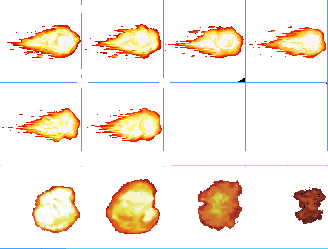
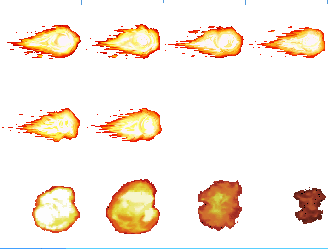
fixed issues

diff --git a/oop2_project_Alexander1_Yershov1_Anael2_Zateikin2/src/Character/Player.cpp b/oop2_project_Alexander1_Yershov1_Anael2_Zateikin2/src/Character/Player.cpp
@@ -34,51 +34,47 @@ Action Player::getActionFromKey(Arena& arena)
         { sf::Keyboard::Z    , Action { ActionType::Punching, Direction::Stay } },
         { sf::Keyboard::X    , Action { ActionType::SpecialDynamic, Direction::Stay } },
         { sf::Keyboard::C    , Action { ActionType::SpecialStatic, Direction::Stay } },
-        /*{ sf::Keyboard::Space, Action { ActionType::Sprinting, Direction::Stay } },*/
         { sf::Keyboard::Space, Action { ActionType::Sprinting, Direction::Stay } }
 
     };
 
     for (/*const*/ auto/*&*/ pair : keyToVectorMapping)
     {
+        //m_speed = SPEED;
+        AttackType attackType;  // for special attacks
+
         if (sf::Keyboard::isKeyPressed(pair.first))
         {
-            // in case special attack is attempted
-            auto type = pair.second.first;
-            if (type == ActionType::SpecialDynamic )
+            switch (auto type = pair.second.first)
             {
-                if (enoughMana(ActionType::SpecialDynamic) && m_specialAttackClock.getElapsedTime() > SPECIAL_DELAY)
-                {
-                    m_specialAttackClock.restart();
-                    arena.createSpecialAttack(type, m_specialAttacks.first, this);
-                    m_action.first = ActionType::SpecialDynamic;
-                    m_mana -= 30;
-                }
-                else
-                {
-                    m_action.first = ActionType::Standing;
-                }
-             }
-            if (type == ActionType::SpecialStatic)
-            {
-                if (enoughMana(ActionType::SpecialStatic))
-                {
-                    arena.createSpecialAttack(type, m_specialAttacks.second, this);
-                    m_action.first = ActionType::SpecialStatic;
-                }
-                else
-                {
-                    m_action.first = ActionType::Standing;
-                }
-            }
-            if (type == ActionType::Sprinting)
-            {
+            case ActionType::Sprinting:
                 m_speed = RUN_SPEED;
                 pair.second.second = getFacingDirection();
-            }
-            else
+                break;
+            case ActionType::SpecialDynamic:
+                m_mana -= 10;
+                // continue to fall through to static
+            case ActionType::SpecialStatic:
+                attackType = type == ActionType::SpecialDynamic ? m_specialAttacks.first : m_specialAttacks.second;
+                if (enoughMana(type) && m_specialAttackClock.getElapsedTime() > SPECIAL_DELAY)
+                {
+                    m_specialAttackClock.restart();
+                    arena.createSpecialAttack(type, attackType, this);
+                    m_action.first = type;
+                    m_mana -= 20;
+                }
+                else
+                    pair.second.first = ActionType::Standing;
+                break;
+            case ActionType::Burning:
+                break;
+            case ActionType::Freezing:
+                break;
+            default:
                 m_speed = SPEED;
-            //m_speed = (type == ActionType::Sprinting) ? RUN_SPEED : SPEED;
+                break;
+            }
+            
 
             return pair.second;
         }

diff --git a/oop2_project_Alexander1_Yershov1_Anael2_Zateikin2/src/ResourcesManager.cpp b/oop2_project_Alexander1_Yershov1_Anael2_Zateikin2/src/ResourcesManager.cpp
@@ -96,9 +96,9 @@ AnimeMap ResourcesManager::dynamicData() const
     auto nextStart = [&]()
     {
         currentStart.x += size.x;
-        if (currentStart.x > size.x * 10)
+        if (currentStart.x > size.x * 4)
         {
-            currentStart.x %= size.x * 10;
+            currentStart.x %= size.x * 4;
             currentStart.y += size.y;
         }
 
@@ -122,7 +122,7 @@ AnimeMap ResourcesManager::dynamicData() const
 
 AnimeMap ResourcesManager::staticFireData() const
 {
-    const auto size = sf::Vector2i(80, 80);
+    const auto size = sf::Vector2i(160, 150);
     const auto initSpace = sf::Vector2i(1, 2);
 
     auto fireObj = AnimeMap{};
@@ -131,9 +131,9 @@ AnimeMap ResourcesManager::staticFireData() const
     auto nextStart = [&]()
     {
         currentStart.x += size.x;
-        if (currentStart.x > size.x * 10)
+        if (currentStart.x > size.x * 5)
         {
-            currentStart.x %= size.x * 10;
+            currentStart.x %= size.x * 5;
             currentStart.y += size.y;
         }
 
@@ -141,7 +141,8 @@ AnimeMap ResourcesManager::staticFireData() const
     };
 
     fireObj.m_data[ActionType::Standing].emplace_back(currentStart, size);
-    for (int repeat = 0; repeat < 7; repeat++)  fireObj.m_data[ActionType::Standing].emplace_back(nextStart(), size);
+    fireObj.m_data[ActionType::hit].emplace_back(currentStart, size);
+    for (int repeat = 0; repeat < 7; repeat++)  fireObj.m_data[ActionType::hit].emplace_back(nextStart(), size);
 
     return fireObj;
 }
@@ -157,9 +158,9 @@ AnimeMap ResourcesManager::staticIceData() const
     auto nextStart = [&]()
     {
         currentStart.x += size.x;
-        if (currentStart.x > size.x * 10)
+        if (currentStart.x > size.x * 5)
         {
-            currentStart.x %= size.x * 10;
+            currentStart.x %= size.x * 5;
             currentStart.y += size.y;
         }
 
@@ -167,7 +168,8 @@ AnimeMap ResourcesManager::staticIceData() const
     };
 
     for (int repeat = 0; repeat < 21; repeat++)  nextStart();
-    for (int repeat = 0; repeat < 6; repeat++)  iceObj.m_data[ActionType::Standing].emplace_back(nextStart(), size);
+    iceObj.m_data[ActionType::Standing].emplace_back(currentStart, size);
+    for (int repeat = 0; repeat < 6; repeat++)  iceObj.m_data[ActionType::hit].emplace_back(nextStart(), size);
 
     return iceObj;
 }

diff --git a/oop2_project_Alexander1_Yershov1_Anael2_Zateikin2/src/Character/Character.cpp b/oop2_project_Alexander1_Yershov1_Anael2_Zateikin2/src/Character/Character.cpp
@@ -69,6 +69,11 @@ Direction Character::getFacingDirection() const
 	return m_picture.getScale().x < 0 ? Direction::Left : Direction::Right;
 }
 
+sf::Vector2f Character::getOrigin()
+{
+	return m_picture.getOrigin();
+}
+
 float Character::x() const
 {
 	return m_picture.getPosition().x;
@@ -81,17 +86,17 @@ float Character::y() const
 
 bool Character::enoughMana(ActionType attack) const
 {
-	if (attack == ActionType::SpecialDynamic && m_mana < MAX_MANA / 2 ||
-		attack == ActionType::SpecialStatic && m_mana < MAX_MANA / 4)
-		return false;
-	return true;
+	if (attack == ActionType::SpecialDynamic && m_mana >= 30 ||
+		attack == ActionType::SpecialStatic && m_mana >= 20)
+		return true;
+	return false;
 }
 
 Character::~Character()
 {
 }
 
-// find find the Euclidean distance between two characters
+// finds the Euclidean distance between two characters
 float Character::operator-(const sf::Vector2f* other) const
 {
 	return std::hypot(this->x() - other->x, this->y() - other->y);

diff --git a/oop2_project_Alexander1_Yershov1_Anael2_Zateikin2/src/specialAttack/DynamicAttack.cpp b/oop2_project_Alexander1_Yershov1_Anael2_Zateikin2/src/specialAttack/DynamicAttack.cpp
@@ -5,7 +5,7 @@ DynamicAttack::DynamicAttack(const sf::Vector2f& location, AttackType attack, Ch
 	: SpecialAttack(location, attack, owner)
 {
 	m_action = Action(ActionType::Standing, owner->getFacingDirection());
-	m_picture.setPosition(location.x + OFFSET_SPECIAL_ATTACK_X * convert(owner->getFacingDirection()).x, location.y - OFFSET_SPECIAL_ATTACK_Y);
+	m_picture.setPosition(location.x + OFFSET_SPECIAL_ATTACK_X * convert(owner->getFacingDirection()).x, location.y);
 	correctDir(m_picture, owner->getFacingDirection());
 
 	switch (attack)
@@ -28,7 +28,7 @@ void DynamicAttack::update(const sf::Time& deltaTime)
 	{
 		m_animation.setAnimationTime(SlowAnimationTime);
 		m_speed = 0;
-  }
+	}
 	
 	if (m_animation.update(deltaTime, m_action) || outOfBounds(this->m_picture.getPosition()))
 		m_alive = false;

diff --git a/oop2_project_Alexander1_Yershov1_Anael2_Zateikin2/src/Animation.cpp b/oop2_project_Alexander1_Yershov1_Anael2_Zateikin2/src/Animation.cpp
@@ -19,6 +19,7 @@ Animation::~Animation()
 bool Animation::update (sf::Time delta, Action action)
 {
     m_elapsed += delta;
+    auto x = 0;
     if (m_elapsed >= m_animationTime)
     {
         m_elapsed -= m_animationTime;
@@ -26,10 +27,7 @@ bool Animation::update (sf::Time delta, Action action)
 
         //export to a new update with new parameters (different animationtime)
         if (action.first == ActionType::hit && m_index == m_animeMap.m_data.find(action.first)->second.size())
-        {
-            //m_alive = false;
             return true;
-        }
             
         m_index %= m_animeMap.m_data.find(action.first) ->second.size();
         update(action);

diff --git a/oop2_project_Alexander1_Yershov1_Anael2_Zateikin2/src/Collision.cpp b/oop2_project_Alexander1_Yershov1_Anael2_Zateikin2/src/Collision.cpp
@@ -74,7 +74,7 @@ namespace
         if (attack.isMe(&obj))
             return;
 
-        attack.getKind() == AttackType::FireDynamic ? obj.setActionType(ActionType::Burning) : obj.setActionType(ActionType::Freezing);
+        attack.getKind() == AttackType::FireStatic ? obj.setActionType(ActionType::Burning) : obj.setActionType(ActionType::Freezing);
     }
     void characterstaticAttack(GameObject& character, GameObject& staticAttack)
     {

diff --git a/oop2_project_Alexander1_Yershov1_Anael2_Zateikin2/src/specialAttack/StaticAttack.cpp b/oop2_project_Alexander1_Yershov1_Anael2_Zateikin2/src/specialAttack/StaticAttack.cpp
@@ -4,6 +4,7 @@ StaticAttack::StaticAttack(const sf::Vector2f& location, AttackType attack, Char
 	: SpecialAttack(location, attack, owner)
 {
 	m_action = Action(ActionType::hit, Direction::Stay);
+	m_picture.setPosition(location.x - 35, location.y - 70);
 }
 
 void StaticAttack::update(const sf::Time& deltaTime)

diff --git a/oop2_project_Alexander1_Yershov1_Anael2_Zateikin2/src/specialAttack/SpecialAttack.cpp b/oop2_project_Alexander1_Yershov1_Anael2_Zateikin2/src/specialAttack/SpecialAttack.cpp
@@ -8,6 +8,7 @@ SpecialAttack::SpecialAttack(const sf::Vector2f& location, AttackType attack, Ch
 	  m_owner(owner),
 	  m_kind(attack)
 {
+	m_picture.setOrigin(owner->getOrigin());
 	m_picture.setTexture(ResourcesManager::instance().texture(int(attack), 0));
 }
 

diff --git a/oop2_project_Alexander1_Yershov1_Anael2_Zateikin2/include/Character/Character.h b/oop2_project_Alexander1_Yershov1_Anael2_Zateikin2/include/Character/Character.h
@@ -18,6 +18,7 @@ public:
 	bool isMe(const Character* other) const { return &(*this) == &(*other); }
 	Direction getDirection() const;
 	Direction getFacingDirection() const;
+	sf::Vector2f getOrigin();
 	~Character();
 protected:
 	Animation m_animation;
